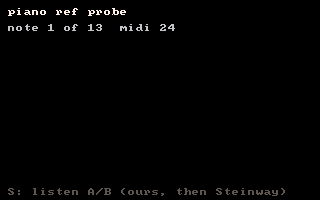
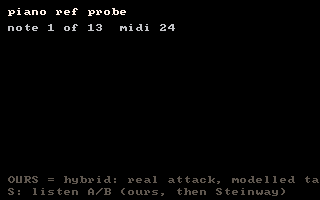
INSTR_PIANO hybrid attack: the real Steinway onset spliced into the modelled string
The maker on the Steinway-matched grand: 'the tail is pretty good', the onset
never quite right. So: commuted synthesis. New API

  instrument_piano_attack(slot, sample_slot, root_midi, splice_ms, xfade_ms)

registers a recorded note (any loaded sample slot) as an attack ZONE on an
INSTR_PIANO slot running MODE_PIANO_MODEL 1. A note plays the nearest zone's
recording, pitched to it, from the strike; the modelled string runs unheard
beside it; at the splice its rms over ~3 periods is matched to the
recording's and an equal-power cross-fade hands over.

Splice per register, from measuring when each Steinway note's hammer and
soundboard noise between the partials settles under -20 dB (~190 ms F#1,
~100 ms C2-F#2, ~50 ms C3-F#3, 20-40 ms from C4): pianoref uses 300/150/100/
70 ms with 80/50/30/15 ms cross-fades. Flyfish (the source of these files)
does not do this: its piano is plain samples cut per register (read its
gen_samples.py settings table only, no code; GPL-3.0).

Measured: no click at any splice (click-check's only events are the
recordings' own hammer onsets, 2 ms in); level across the splice within
~1 dB of the real note's own change C1-F#4. Open: C5-F#5 darken at the
hand-over (C5 centroid 931 -> 599 Hz, the real one 893) and F#5-F#6 drop
2.5-4 dB; the model has shed its highs by 70 ms. PN_ATK_GAIN 3.4 = the
median level match to the model alone.

Without zones nothing changes: model 1 and classic 0 renders byte-identical
[…]

diff --git a/editor/src/shell.js b/editor/src/shell.js
@@ -151,7 +151,7 @@ const sections = [
   { title: 'collision',    keys: ['boxes_touch', 'point_in_box', 'circles_touch', 'near', 'touching_map', 'tile_at', 'touching_color'] },
   { title: 'animation',     keys: ['anim', 'blink'] },
   { title: 'strings',        keys: ['str'] },
-  { title: 'sound',       keys: ['sfx', 'note', 'hit', 'note_on', 'note_off', 'note_pitch', 'note_vol', 'note_cutoff', 'note_duty', 'note_pan', 'note_res', 'note_lfo', 'note_lfo_shape', 'note_env', 'note_follow', 'note_harmonics', 'note_timbre', 'note_morph', 'voice_nasal', 'voice_consonant', 'voice_coda', 'instrument_mode', 'note_aux', 'note_drive', 'note_drive_mode', 'instrument_sync', 'note_sync', 'note_echo', 'note_reverb', 'note_filter', 'note_glide', 'note_glide_scale', 'instrument_glide', 'instrument_glide_scale', 'instrument_trigger', 'GLIDE_CONSTANT', 'GLIDE_ANALOG', 'GLIDE_PER_OCT', 'TRIG_MULTI', 'TRIG_SINGLE', 'note_retrig', 'note_off_all', 'instrument', 'instrument_duty', 'instrument_pan', 'instrument_level', 'instrument_vibrato', 'instrument_analog', 'instrument_release_shape', 'RELEASE_LINEAR', 'RELEASE_EXP', 'RELEASE_DAMPER', 'export_audio', 'export_busy', 'export_progress', 'export_last', 'EXPORT_WAV', 'EXPORT_M4A', 'record_arm', 'record_grab', 'instrument_sample', 'instrument_sample_region', 'instrument_sample_mode', 'sample_peaks', 'sample_read', 'sample_load', 'sample_autotune', 'sample_shift', 'sample_formant', 'record_peaks', 'instrument_playhead', 'mic_start', 'mic_stop', 'mic_active', 'mic_level', 'mic_pitch', 'mic_record', 'mic_recording', 'mic_record_progress', 'mic_record_rate', 'mic_record_read', 'pan_law', 'listener', 'listener_vel', 'spatial_model', 'spatial_speed', 'note_pos', 'note_motion', 'hit_at', 'instrument_pos', 'instrument_motion', 'instrument_lfo', 'lfo_shape', 'lfo_value', 'scope_read', 'scope_read2', 'instrument_filter', 'instrument_keytrack', 'instrument_env', 'instrument_follow', 'instrument_harmonics', 'instrument_timbre', 'instrument_morph', 'instrument_tune', 'instrument_unison', 'instrument_unison_detune', 'instrument_drive', 'instrument_drive_mode', 'instrument_bandlimit', 'instrument_echo', 'instrument_reverb', 'instrument_reverb_bus', 'reverb_bus_fx', 'reverb_insert', 'reverb_spring', 'reverb_spring_tone', 'reverb_plate', 'reverb_plate_width', 'echo_insert', 'echo_insert_bbd', 'drive_insert', 'drive_insert_inst', 'drive_voice', 'grains', 'instrument_grains', 'grains_freeze', 'instrument_grains_freeze', 'grains_pitch', 'instrument_grains_pitch', 'grains_repeat', 'instrument_grains_repeat', 'instrument_chorus', 'instrument_flanger', 'instrument_tape', 'instrument_tape_warble', 'instrument_wah', 'instrument_wah_lfo', 'instrument_crush', 'instrument_eq', 'instrument_formant', 'instrument_tremolo', 'instrument_autopan', 'instrument_ringmod', 'instrument_ringmod_ratio', 'instrument_phaser', 'instrument_univibe', 'instrument_leslie', 'instrument_choke', 'instrument_mono', 'instrument_modes', 'instrument_modes_noise', 'resonator', 'resonator_tune', 'instrument_resonator', 'echo', 'reverb', 'reverb_bus', 'chorus', 'flanger', 'tape', 'tape_inst', 'tape_warble', 'wah', 'wah_lfo', 'crush', 'crush_inst', 'eq', 'eq_inst', 'formant', 'filter', 'filter_inst', 'tremolo', 'autopan', 'ringmod', 'ringmod_ratio', 'phaser', 'univibe', 'leslie', 'dropout', 'shallow', 'instrument_shallow', 'amp_noise', 'gate', 'instrument_gate', 'stereo_width', 'instrument_stereo_width', 'instrument_group', 'reverb_bus_into', 'instrument_fx_filter', 'multiband', 'instrument_multiband', 'shimmer', 'instrument_shimmer', 'varispeed', 'fx_mod', 'instrument_fx_mod', 'fx_lfo', 'fx_order', 'sidechain', 'sidechain_key', 'glue', 'vocoder', 'vocoder_send', 'vocoder_mic', 'vocoder_unvoiced', 'autotune_mic', 'harmonize_mic', 'input_monitor', 'wave_set', 'tone', 'chord', 'strum', 'strum_notes', 'schedule', 'schedule_hit', 'schedule_at', 'schedule_note_at', 'note_event_at', 'NEV_REARTIC', 'NEV_DAMP', 'NEV_RELEASE', 'unschedule', 'NoteOpts', 'NoteVib', 'NoteShape', 'shape_define', 'lane_at', 'LANE_DAMPER', 'LANE_CUTOFF', 'LANE_LEVEL', 'LANE_VIB', 'SHP_PITCH', 'SHP_GAIN', 'SHP_HARM', 'SHP_TIMB', 'SHP_MORPH', 'SHP_CUTOFF', 'SHAPE_LINEAR', 'SHAPE_EASE', 'SHAPE_FAST', 'instrument_accent', 'ACC_VOL', 'ACC_ENV', 'ACC_HARMONICS', 'ACC_TIMBRE', 'ACC_MORPH', 'ACC_CUTOFF', 'audio_time', 'bpm', 'beat', 'beat_pos', 'every', 'euclid', 'chance', 'degree', 'INSTR_SQUARE', 'INSTR_SAW', 'INSTR_TRI', 'INSTR_NOISE', 'INSTR_SINE', 'INSTR_USER0', 'INSTR_USER1', 'INSTR_USER2', 'INSTR_USER3', 'INSTR_PLUCK', 'INSTR_MALLET', 'INSTR_FM', 'INSTR_ORGAN', 'INSTR_EPIANO', 'INSTR_PD', 'INSTR_MEMBRANE', 'INSTR_REED', 'INSTR_PIPE', 'INSTR_VOICE', 'INSTR_GUITAR', 'INSTR_PIANO', 'INSTR_BOWED', 'INSTR_BRASS', 'INSTR_SAMPLE', 'INSTR_MODAL', 'INSTR_FM4', 'INSTR_MME', 'INSTR_METAL', 'INSTR_SINTER', 'INSTR_WAVESCAN', 'INSTR_GRAIN', 'INSTR_SING', 'INSTR_SCRAPE', 'SAMPLE_NORMAL', 'SAMPLE_REVERSE', 'SAMPLE_LOOP', 'SAMPLE_PINGPONG', 'LFO_PITCH', 'LFO_DUTY', 'LFO_VOLUME', 'LFO_CUTOFF', 'LFO_CUTOFF_OCT', 'LFO_HARMONICS', 'LFO_TIMBRE', 'LFO_MORPH', 'LFO_PAN', 'LFO_DETUNE', 'PAN_LINEAR', 'PAN_POWER', 'ENV_CUTOFF', 'ENV_CUTOFF_OCT', 'ENV_PITCH', 'ENV_DUTY', 'ENV_HARMONICS', 'ENV_TIMBRE', 'ENV_MORPH', 'ENV_DETUNE', 'FILTER_OFF', 'FILTER_LOW', 'FILTER_HIGH', 'FILTER_BAND', 'FILTER_NOTCH', 'FILTER_LADDER', 'FILTER_STEINER', 'FILTER_STEINER_HP', 'FILTER_STEINER_BP', 'FILTER_STEINER_NF', 'FILTER_DIODE', 'NOTE_FILTER_OFF', 'DRIVE_SOFT', 'DRIVE_HARD', 'DRIVE_FOLD', 'DRIVE_ASYM', 'DRIVE_VOICE_NONE', 'DRIVE_VOICE_TS', 'DRIVE_VOICE_RAT', 'DRIVE_VOICE_MUFF', 'LFO_SHAPE_SINE', 'LFO_SHAPE_SQUARE', 'LFO_SHAPE_TRI', 'LFO_SHAPE_SAW', 'LFO_SHAPE_RAMP', 'LFO_SHAPE_OPTICAL', 'LFO_SHAPE_SH', 'LFO_SHAPE_RANDOM', 'TREM_SINE', 'TREM_SQUARE', 'TREM_TRI', 'MODE_STRING_WEIGHT', 'MODE_STRING_CLICK', 'MODE_PIANO_DECAY', 'MODE_PIANO_KNOCK', 'MODE_PIANO_STRETCH', 'MODE_PIANO_STIFF', 'MODE_PIANO_MODEL', 'MODE_ORGAN_PERC_THIRD', 'MODE_ORGAN_PERC_SLOW', 'MODE_ORGAN_LEAK', 'MODE_BOW_PIZZ', 'MODE_BOW_BODY', 'MODE_BOW_SIZE', 'MODE_BOW_PLUCK', 'MODE_MODAL_POS', 'MODE_MODAL_DIRECT', 'MODE_MODAL_MODES', 'MODE_MODAL_EXCITE', 'MODE_MODAL_MAP', 'MODE_FM4_ALG', 'MODE_FM4_R0', 'MODE_FM4_R1', 'MODE_FM4_R2', 'MODE_FM4_R3', 'MODE_FM4_MAP', 'MODE_MME_FEEDBACK', 'MODE_MME_SHAPER', 'MODE_MME_PAIR', 'MODE_MME_INTERVAL', 'MODE_METAL_DECAY', 'MODE_METAL_SPREAD', 'MODE_SINTER_A', 'MODE_SINTER_B', 'MODE_SINTER_MOTION', 'MODE_SINTER_DECAY', 'MODE_WAVESCAN_RES', 'MODE_WAVESCAN_NOISE', 'MODE_WAVESCAN_INTERVAL', 'MODE_GRAIN_SCATTER', 'MODE_GRAIN_DETUNE', 'MODE_GRAIN_REVERSE', 'MODE_SING_ONESHOT', 'BOW_SIZE_VIOLIN', 'BOW_SIZE_VIOLA', 'BOW_SIZE_CELLO', 'BOW_SIZE_BASS', 'FX_TREM', 'FX_WAH', 'FX_CHORUS', 'FX_PHASER', 'FX_FLANGER', 'FX_TAPE', 'FX_EQ', 'FX_CRUSH', 'FX_REVERB', 'FX_FORMANT', 'FX_FILTER', 'FX_PAN', 'FX_RINGMOD', 'FX_ECHO', 'FX_GRAINS', 'FX_DRIVE', 'FX_SHALLOW', 'FX_GATE', 'FX_MULTIBAND', 'FX_WIDTH', 'FX_INST', 'FXMOD_FILTER_CUT', 'FXMOD_FILTER_RES', 'FXMOD_DRIVE', 'FXMOD_TREM_DEPTH', 'FXMOD_PAN_DEPTH', 'FXMOD_GRAINS_MIX', 'FXMOD_SHIMMER_MIX', 'LESLIE_STOP', 'LESLIE_SLOW', 'LESLIE_FAST', 'SCALE_MAJOR', 'SCALE_MINOR', 'SCALE_PENTA', 'SCALE_PENTA_MIN', 'SCALE_BLUES', 'SCALE_CHROMATIC', 'CHORD_MAJ', 'CHORD_MIN', 'CHORD_DIM', 'CHORD_AUG', 'CHORD_MAJ7', 'CHORD_MIN7', 'CHORD_DOM7', 'CHORD_SUS4', 'CHORD_POWER'] },
+  { title: 'sound',       keys: ['sfx', 'note', 'hit', 'note_on', 'note_off', 'note_pitch', 'note_vol', 'note_cutoff', 'note_duty', 'note_pan', 'note_res', 'note_lfo', 'note_lfo_shape', 'note_env', 'note_follow', 'note_harmonics', 'note_timbre', 'note_morph', 'voice_nasal', 'voice_consonant', 'voice_coda', 'instrument_mode', 'note_aux', 'note_drive', 'note_drive_mode', 'instrument_sync', 'note_sync', 'note_echo', 'note_reverb', 'note_filter', 'note_glide', 'note_glide_scale', 'instrument_glide', 'instrument_glide_scale', 'instrument_trigger', 'GLIDE_CONSTANT', 'GLIDE_ANALOG', 'GLIDE_PER_OCT', 'TRIG_MULTI', 'TRIG_SINGLE', 'note_retrig', 'note_off_all', 'instrument', 'instrument_duty', 'instrument_pan', 'instrument_level', 'instrument_vibrato', 'instrument_analog', 'instrument_release_shape', 'RELEASE_LINEAR', 'RELEASE_EXP', 'RELEASE_DAMPER', 'export_audio', 'export_busy', 'export_progress', 'export_last', 'EXPORT_WAV', 'EXPORT_M4A', 'record_arm', 'record_grab', 'instrument_sample', 'instrument_piano_attack', 'instrument_sample_region', 'instrument_sample_mode', 'sample_peaks', 'sample_read', 'sample_load', 'sample_autotune', 'sample_shift', 'sample_formant', 'record_peaks', 'instrument_playhead', 'mic_start', 'mic_stop', 'mic_active', 'mic_level', 'mic_pitch', 'mic_record', 'mic_recording', 'mic_record_progress', 'mic_record_rate', 'mic_record_read', 'pan_law', 'listener', 'listener_vel', 'spatial_model', 'spatial_speed', 'note_pos', 'note_motion', 'hit_at', 'instrument_pos', 'instrument_motion', 'instrument_lfo', 'lfo_shape', 'lfo_value', 'scope_read', 'scope_read2', 'instrument_filter', 'instrument_keytrack', 'instrument_env', 'instrument_follow', 'instrument_harmonics', 'instrument_timbre', 'instrument_morph', 'instrument_tune', 'instrument_unison', 'instrument_unison_detune', 'instrument_drive', 'instrument_drive_mode', 'instrument_bandlimit', 'instrument_echo', 'instrument_reverb', 'instrument_reverb_bus', 'reverb_bus_fx', 'reverb_insert', 'reverb_spring', 'reverb_spring_tone', 'reverb_plate', 'reverb_plate_width', 'echo_insert', 'echo_insert_bbd', 'drive_insert', 'drive_insert_inst', 'drive_voice', 'grains', 'instrument_grains', 'grains_freeze', 'instrument_grains_freeze', 'grains_pitch', 'instrument_grains_pitch', 'grains_repeat', 'instrument_grains_repeat', 'instrument_chorus', 'instrument_flanger', 'instrument_tape', 'instrument_tape_warble', 'instrument_wah', 'instrument_wah_lfo', 'instrument_crush', 'instrument_eq', 'instrument_formant', 'instrument_tremolo', 'instrument_autopan', 'instrument_ringmod', 'instrument_ringmod_ratio', 'instrument_phaser', 'instrument_univibe', 'instrument_leslie', 'instrument_choke', 'instrument_mono', 'instrument_modes', 'instrument_modes_noise', 'resonator', 'resonator_tune', 'instrument_resonator', 'echo', 'reverb', 'reverb_bus', 'chorus', 'flanger', 'tape', 'tape_inst', 'tape_warble', 'wah', 'wah_lfo', 'crush', 'crush_inst', 'eq', 'eq_inst', 'formant', 'filter', 'filter_inst', 'tremolo', 'autopan', 'ringmod', 'ringmod_ratio', 'phaser', 'univibe', 'leslie', 'dropout', 'shallow', 'instrument_shallow', 'amp_noise', 'gate', 'instrument_gate', 'stereo_width', 'instrument_stereo_width', 'instrument_group', 'reverb_bus_into', 'instrument_fx_filter', 'multiband', 'instrument_multiband', 'shimmer', 'instrument_shimmer', 'varispeed', 'fx_mod', 'instrument_fx_mod', 'fx_lfo', 'fx_order', 'sidechain', 'sidechain_key', 'glue', 'vocoder', 'vocoder_send', 'vocoder_mic', 'vocoder_unvoiced', 'autotune_mic', 'harmonize_mic', 'input_monitor', 'wave_set', 'tone', 'chord', 'strum', 'strum_notes', 'schedule', 'schedule_hit', 'schedule_at', 'schedule_note_at', 'note_event_at', 'NEV_REARTIC', 'NEV_DAMP', 'NEV_RELEASE', 'unschedule', 'NoteOpts', 'NoteVib', 'NoteShape', 'shape_define', 'lane_at', 'LANE_DAMPER', 'LANE_CUTOFF', 'LANE_LEVEL', 'LANE_VIB', 'SHP_PITCH', 'SHP_GAIN', 'SHP_HARM', 'SHP_TIMB', 'SHP_MORPH', 'SHP_CUTOFF', 'SHAPE_LINEAR', 'SHAPE_EASE', 'SHAPE_FAST', 'instrument_accent', 'ACC_VOL', 'ACC_ENV', 'ACC_HARMONICS', 'ACC_TIMBRE', 'ACC_MORPH', 'ACC_CUTOFF', 'audio_time', 'bpm', 'beat', 'beat_pos', 'every', 'euclid', 'chance', 'degree', 'INSTR_SQUARE', 'INSTR_SAW', 'INSTR_TRI', 'INSTR_NOISE', 'INSTR_SINE', 'INSTR_USER0', 'INSTR_USER1', 'INSTR_USER2', 'INSTR_USER3', 'INSTR_PLUCK', 'INSTR_MALLET', 'INSTR_FM', 'INSTR_ORGAN', 'INSTR_EPIANO', 'INSTR_PD', 'INSTR_MEMBRANE', 'INSTR_REED', 'INSTR_PIPE', 'INSTR_VOICE', 'INSTR_GUITAR', 'INSTR_PIANO', 'INSTR_BOWED', 'INSTR_BRASS', 'INSTR_SAMPLE', 'INSTR_MODAL', 'INSTR_FM4', 'INSTR_MME', 'INSTR_METAL', 'INSTR_SINTER', 'INSTR_WAVESCAN', 'INSTR_GRAIN', 'INSTR_SING', 'INSTR_SCRAPE', 'SAMPLE_NORMAL', 'SAMPLE_REVERSE', 'SAMPLE_LOOP', 'SAMPLE_PINGPONG', 'LFO_PITCH', 'LFO_DUTY', 'LFO_VOLUME', 'LFO_CUTOFF', 'LFO_CUTOFF_OCT', 'LFO_HARMONICS', 'LFO_TIMBRE', 'LFO_MORPH', 'LFO_PAN', 'LFO_DETUNE', 'PAN_LINEAR', 'PAN_POWER', 'ENV_CUTOFF', 'ENV_CUTOFF_OCT', 'ENV_PITCH', 'ENV_DUTY', 'ENV_HARMONICS', 'ENV_TIMBRE', 'ENV_MORPH', 'ENV_DETUNE', 'FILTER_OFF', 'FILTER_LOW', 'FILTER_HIGH', 'FILTER_BAND', 'FILTER_NOTCH', 'FILTER_LADDER', 'FILTER_STEINER', 'FILTER_STEINER_HP', 'FILTER_STEINER_BP', 'FILTER_STEINER_NF', 'FILTER_DIODE', 'NOTE_FILTER_OFF', 'DRIVE_SOFT', 'DRIVE_HARD', 'DRIVE_FOLD', 'DRIVE_ASYM', 'DRIVE_VOICE_NONE', 'DRIVE_VOICE_TS', 'DRIVE_VOICE_RAT', 'DRIVE_VOICE_MUFF', 'LFO_SHAPE_SINE', 'LFO_SHAPE_SQUARE', 'LFO_SHAPE_TRI', 'LFO_SHAPE_SAW', 'LFO_SHAPE_RAMP', 'LFO_SHAPE_OPTICAL', 'LFO_SHAPE_SH', 'LFO_SHAPE_RANDOM', 'TREM_SINE', 'TREM_SQUARE', 'TREM_TRI', 'MODE_STRING_WEIGHT', 'MODE_STRING_CLICK', 'MODE_PIANO_DECAY', 'MODE_PIANO_KNOCK', 'MODE_PIANO_STRETCH', 'MODE_PIANO_STIFF', 'MODE_PIANO_MODEL', 'MODE_ORGAN_PERC_THIRD', 'MODE_ORGAN_PERC_SLOW', 'MODE_ORGAN_LEAK', 'MODE_BOW_PIZZ', 'MODE_BOW_BODY', 'MODE_BOW_SIZE', 'MODE_BOW_PLUCK', 'MODE_MODAL_POS', 'MODE_MODAL_DIRECT', 'MODE_MODAL_MODES', 'MODE_MODAL_EXCITE', 'MODE_MODAL_MAP', 'MODE_FM4_ALG', 'MODE_FM4_R0', 'MODE_FM4_R1', 'MODE_FM4_R2', 'MODE_FM4_R3', 'MODE_FM4_MAP', 'MODE_MME_FEEDBACK', 'MODE_MME_SHAPER', 'MODE_MME_PAIR', 'MODE_MME_INTERVAL', 'MODE_METAL_DECAY', 'MODE_METAL_SPREAD', 'MODE_SINTER_A', 'MODE_SINTER_B', 'MODE_SINTER_MOTION', 'MODE_SINTER_DECAY', 'MODE_WAVESCAN_RES', 'MODE_WAVESCAN_NOISE', 'MODE_WAVESCAN_INTERVAL', 'MODE_GRAIN_SCATTER', 'MODE_GRAIN_DETUNE', 'MODE_GRAIN_REVERSE', 'MODE_SING_ONESHOT', 'BOW_SIZE_VIOLIN', 'BOW_SIZE_VIOLA', 'BOW_SIZE_CELLO', 'BOW_SIZE_BASS', 'FX_TREM', 'FX_WAH', 'FX_CHORUS', 'FX_PHASER', 'FX_FLANGER', 'FX_TAPE', 'FX_EQ', 'FX_CRUSH', 'FX_REVERB', 'FX_FORMANT', 'FX_FILTER', 'FX_PAN', 'FX_RINGMOD', 'FX_ECHO', 'FX_GRAINS', 'FX_DRIVE', 'FX_SHALLOW', 'FX_GATE', 'FX_MULTIBAND', 'FX_WIDTH', 'FX_INST', 'FXMOD_FILTER_CUT', 'FXMOD_FILTER_RES', 'FXMOD_DRIVE', 'FXMOD_TREM_DEPTH', 'FXMOD_PAN_DEPTH', 'FXMOD_GRAINS_MIX', 'FXMOD_SHIMMER_MIX', 'LESLIE_STOP', 'LESLIE_SLOW', 'LESLIE_FAST', 'SCALE_MAJOR', 'SCALE_MINOR', 'SCALE_PENTA', 'SCALE_PENTA_MIN', 'SCALE_BLUES', 'SCALE_CHROMATIC', 'CHORD_MAJ', 'CHORD_MIN', 'CHORD_DIM', 'CHORD_AUG', 'CHORD_MAJ7', 'CHORD_MIN7', 'CHORD_DOM7', 'CHORD_SUS4', 'CHORD_POWER'] },
   { title: 'utility', keys: ['rnd', 'rnd_between', 'rnd_float', 'rnd_float_between', 'rnd_seed', 'now', 'dt', 'epoch', 'frame', 'fps', 'sgn', 'mid', 'timer', 'timer_reset'] },
   { title: 'persistence', keys: ['save', 'load', 'save_int', 'load_int', 'save_bytes', 'load_bytes', 'de_state', 'de_state_for', 'de_state_for_saved', 'STATE', 'S', 'GameState'] },
   { title: 'external data', keys: ['de_data_path', 'de_dropped_file', 'de_open_path', 'de_switch_cart'] },

diff --git a/editor/src/studioDocs.js b/editor/src/studioDocs.js
@@ -334,6 +334,7 @@ export const studioDocs = {
   record_arm: { sig: 'void record_arm(void)',                                            doc: 'PCM SAMPLER (mic-and-sampling.md): begin the always-on rolling capture of the master output — the console records its OWN sound into a buffer. Idempotent; OFF and byte-identical until you call it (so it never touches carts that don’t sample). Call once (e.g. in init), then record_grab() any time to snapshot the recent audio. The capture ring holds the last ~8 seconds.\nrecord_arm();  // start listening to my own output' },
   record_grab: { sig: 'int record_grab(int sample_slot, float seconds)',                 doc: 'Snapshot the last `seconds` of captured audio into PCM sample slot 0..15 (replacing whatever was there), peak-normalized with leading/trailing SILENCE TRIMMED so the buffer starts at the first audible sample (no dead air from the gap between arming and the first note). Returns the sample count grabbed AFTER trimming (0 = not armed, or nothing captured yet). Then play it back with instrument_sample() + INSTR_SAMPLE. This is the “record what I just played, then play with it” move — the source is the console’s own synthesis, not a mic.\nint n = record_grab(0, 2.0f);  // grab the last 2 seconds into sample slot 0' },
   instrument_sample: { sig: 'void instrument_sample(int slot, int sample_slot, int root_midi)', doc: 'Bind an INSTR_SAMPLE instrument slot to a recorded buffer (from record_grab). root_midi = the note that plays the buffer at its ORIGINAL speed (e.g. 60 = C4); press higher and it plays faster / up in pitch, lower = slower / down — the classic sampler keyboard. Use with a keybed to play your recording chromatically.\ninstrument(5, INSTR_SAMPLE, 1, 0, 7, 200);\ninstrument_sample(5, 0, 60);  // slot 5 plays sample 0, C4 = original pitch' },
+  instrument_piano_attack: { sig: 'void instrument_piano_attack(int slot, int sample_slot, int root_midi, int splice_ms, int xfade_ms)', doc: 'The HYBRID piano: a real recorded attack, then the modelled string. For an INSTR_PIANO slot on the grand (instrument_harmonics 0.08) with MODE_PIANO_MODEL 1. Load the recording of one note into a sample slot (sample_load), then register it as a ZONE: notes play that recording from the strike for splice_ms, while the modelled string runs unheard beside it; at the splice the string is level-matched to the recording and they cross-fade over xfade_ms. The hammer, felt and soundboard noise of a real piano is the part a model gets least right, and it is over in tens of ms in the treble but takes 100-200 ms in the bass, so give the low zones longer splices (Steinway: ~300 ms at C1, ~100 ms at C3, 60-80 ms from C4 up). Call once per zone; a played note uses the zone with the NEAREST root and pitches its recording to the note. sample_slot -1 removes the zone at root_midi. Without zones the slot plays the plain model.\nsample_load(0, c4_pcm, n);  instrument_piano_attack(5, 0, 60, 70, 15);   // C4 zone: 70 ms real, 15 ms cross-fade' },
   instrument_sample_mode: { sig: 'void instrument_sample_mode(int slot, int mode)', doc: 'Set how an INSTR_SAMPLE slot plays its chop: SAMPLE_NORMAL (one-shot forward), SAMPLE_REVERSE (one-shot backward), SAMPLE_LOOP (forward, wrapping to the chop start — keeps sounding while the note is held), or SAMPLE_PINGPONG (bounce forward/backward between the chop ends while held). Loop/pingpong turn a chop into a sustained pad/texture; normal/reverse are one-shots gated by the amp envelope.\ninstrument_sample_mode(5, SAMPLE_LOOP);' },
   SAMPLE_NORMAL:   { sig: '#define SAMPLE_NORMAL 0',   doc: 'INSTR_SAMPLE playback mode: play the chop once, forward (default). Pass to instrument_sample_mode().' },
   SAMPLE_REVERSE:  { sig: '#define SAMPLE_REVERSE 1',  doc: 'INSTR_SAMPLE playback mode: play the chop once, backward. Pass to instrument_sample_mode().' },

diff --git a/runtime/sound.h b/runtime/sound.h
@@ -2205,6 +2205,7 @@ static CtxKey sound_ctx_key(SoundReqKind k) {
         case SR_INSTR_ACCENT:                      // a=slot, b=ACC_* route
         case SR_SHAPE_PT:                          // a=shape id, b=point index
         case SR_MODES_N:                           // a=slot, b=modes / noise
+        case SR_INSTR_PNATK:                       // a=slot, b=root midi (one zone per root)
             return CTXK_KAB;
         // a+c name the target
         case SR_FX_MOD: case SR_FX_LFO:            // a=target, c=bus
@@ -5671,6 +5672,12 @@ static const float PIANO_HFLOSS[6] = { PN_HFLOSS_GRAND, 0.0f, 0.0f, 0.0f, 0.0f, 
 #define PN_ONSET_GRAND 5.0f
 #endif
 static const float PIANO_ONSET[6] = { PN_ONSET_GRAND, 0.0f, 0.0f, 0.0f, 0.0f, 0.0f };
+
+// HYBRID ATTACK gain: the recording's level relative to the modelled string (instrument_piano_attack). The
+// string is level-matched TO the recording at the splice, so this sets the whole hybrid note's loudness.
+#ifndef PN_ATK_GAIN
+#define PN_ATK_GAIN 3.4f
+#endif
 static const float PIANO_FELT[6] = { PN_FELT_GRAND, 0.0f, 0.0f, 0.0f, 0.0f, 0.0f };
 
 // DECAY FLOOR (2026-11-09, step 3, forced by the felt hammer). The loop loses a FIXED amount per period
@@ -5851,6 +5858,7 @@ static void sound_piano_start(Voice *v) {
     float pn_sig  = pn_mdl ? PIANO_SIGMA[vi]  : 0.0f;
     float pn_ons  = pn_mdl ? PIANO_ONSET[vi]  : 0.0f;
     float freq = v->freq > 20.0f ? v->freq : 20.0f;
+    float pa_fnom = freq;                              // HYBRID ATTACK: the played pitch BEFORE the stretch (picks the zone)
     // STRETCHED-TUNING SEAM (see piano_stretch_freq). eng_p[4] (MODE_PIANO_STRETCH) scales K: bank
     // default 0.5 → 1.0× = exactly PIANO_STRETCH_K, so the default is bit-identical to before it was
     // a parameter; 0 = equal temperament; 1.0 = 2× the curve.
@@ -6015,12 +6023,80 @@ static void sound_piano_start(Voice *v) {
     }
     v->eng_subph = v->eng_env = 0.0f;
     v->eng_click = 700;
+    // HYBRID ATTACK (2026-11-09, commuted synthesis: the maker heard the modelled tail as good and its onset
+    // as never quite right). A slot with recorded attack zones (instrument_piano_attack) on MODE_PIANO_MODEL
+    // plays the REAL recording from note-on, while this string runs unheard beside it; at the zone's splice
+    // point the string's level is matched to the recording's (rms over a few periods just before) and an
+    // equal-power cross-fade hands over. The splice is per zone because the attack is not one length: the
+    // Steinway's hammer + soundboard noise settles by ~20-40 ms from C4 up but ~100-200 ms in the bass.
+    v->pa_smp = -1;
+    if (pn_mdl) {
+        const Instrument *pins = &instr_bank[v->instr_slot];
+        if (pins->pna_n > 0) {
+            float midi = 69.0f + 12.0f * de_log2f(pa_fnom / 440.0f);
+            int z = 0; float best = 1e9f;
+            for (int k = 0; k < pins->pna_n; k++) {
+                float d = fabsf(midi - (float)pins->pna_root[k]);
+                if (d < best) { best = d; z = k; }
+            }
+            int si = pins->pna_smp[z];
+            if (si >= 0 && si < SOUND_SAMPLE_SLOTS && sound_samples[si].loaded) {
+                const SoundSample *ss = &sound_samples[si];
+                float rootf = 440.0f * de_powf(2.0f, ((float)pins->pna_root[z] - 69.0f) / 12.0f);
+                float rate = freq / piano_stretch_freq(rootf, PIANO_STRETCH_K * (v->eng_p[4] * 2.0f));
+                int T = (int)(pins->pna_splice[z] * 0.001f * (float)SOUND_SAMPLE_RATE);
+                int X = (int)(pins->pna_xf[z] * 0.001f * (float)SOUND_SAMPLE_RATE);
+                int W = (int)(3.0f * (float)SOUND_SAMPLE_RATE / freq);          // match over ~3 periods
+                if (W < SOUND_SAMPLE_RATE / 100) W = SOUND_SAMPLE_RATE / 100;
+                if (W > T / 2) W = T / 2;
+                if (W >= 1 && (float)(T + X + 2) * rate < (float)ss->len) {   // the recording must outlast the cross-fade
+                    double e = 0.0;
+                    for (int k = T - W; k < T; k++) {
+                        float p = (float)k * rate; int i = (int)p; float fr = p - (float)i;
+                        float sv = ss->data[i] + fr * (ss->data[i + 1] - ss->data[i]);
+                        e += (double)sv * sv;
+                    }
+                    v->pa_smp = si; v->pa_pos = 0.0f; v->pa_rate = rate; v->pa_sg = PN_ATK_GAIN;
+                    v->pa_n = 0; v->pa_T = T; v->pa_X = X; v->pa_W = W;
+                    v->pa_tgt = sqrtf((float)(e / (double)W)); v->pa_e = 0.0f; v->pa_mg = 1.0f;
+                }
+            }
+        }
+    }
     v->pn_on = true;
 }
 
 // per-sample — navkit processStifKarpOscillator verbatim: near-lossless KS loop (avg → brightness
 // blend → effectiveDamping → dispersion → allpass tuning), one-period delay, optional 2nd string,
 // tone-filter, soundboard crossfade, sympathetic tap. Decay is the amp envelope, not the loop.
+// HYBRID ATTACK mix (see sound_piano_start): `m` is the modelled string's sample. Before the splice the
+// recording plays alone (the string runs unheard, its energy gathered over the last W samples); at the
+// splice the string's gain is set so its rms matches the recording's there; then an equal-power cross-fade.
+static inline float pn_attack_mix(Voice *v, float m) {
+    if (v->pa_smp == -2) return v->pa_mg * m;                     // spliced: the string alone
+    const SoundSample *ss = &sound_samples[v->pa_smp];
+    float sv = 0.0f;
+    int i = (int)v->pa_pos;
+    if (ss->loaded && i + 1 < ss->len) { float fr = v->pa_pos - (float)i; sv = (ss->data[i] + fr * (ss->data[i + 1] - ss->data[i])) * v->pa_sg; }
+    v->pa_pos += v->pa_rate;
+    int n = v->pa_n++;
+    if (n < v->pa_T) {
+        if (n >= v->pa_T - v->pa_W) v->pa_e += m * m;
+        if (n == v->pa_T - 1) {
+            float mr = sqrtf(v->pa_e / (float)v->pa_W);
+            float g = (mr > 1e-9f) ? v->pa_tgt * v->pa_sg / mr : 1.0f;
+            v->pa_mg = clampf(0.02f, 50.0f, g);
+        }
+        return sv;
+    }
+    if (n < v->pa_T + v->pa_X) {
+        float th = 1.57079633f * (float)(n - v->pa_T) / (float)v->pa_X;
+        return sv * de_cosf(th) + v->pa_mg * m * de_sinf(th);
+    }
+    v->pa_smp = -2;
+    return v->pa_mg * m;
+}
+
 static inline float sound_piano_sample(Voice *v, float pitch_mul) {
     int len = v->ks_len;
     if (len < 2 || !v->pn_on) return 0.0f;       // engine id without a note-on init → silent
@@ -6123,6 +6199,7 @@ static inline float sound_piano_sample(Voice *v, float pitch_mul) {
                                                                      // (under the ONSET RAMP too, or it cracks before the string builds)
         v->eng_click--;
     }
+    if (v->pa_smp != -1) res = pn_attack_mix(v, res);              // HYBRID ATTACK: the real onset, then the string
     return res;
 }
 
@@ -8941,6 +9018,26 @@ static void sound_fire_req(SoundReq r) {
         if (instr_bank[slot].wave == INSTR_SING && r.b >= 0 && r.b < SOUND_SAMPLE_SLOTS && sing_an[r.b].nep == 0)
             sing_an[r.b].want = 1;      // INSTR_SING: ask sound_tick for the analysis (covers a replayed binding)
     } break;
+    case SR_INSTR_PNATK: {   // a=slot, b=root midi, c=sample slot (-1 = remove), e0=splice ms, e1=xfade ms
+        int slot = r.a;
+        if (slot < 0 || slot >= SOUND_INSTR_SLOTS) return;
+        Instrument *in = &instr_bank[slot];
+        int z = 0;
+        while (z < in->pna_n && in->pna_root[z] != r.b) z++;
+        if (r.c < 0) {                                   // remove that root's zone
+            if (z < in->pna_n) {
+                for (int k = z; k < in->pna_n - 1; k++) {
+                    in->pna_root[k] = in->pna_root[k + 1]; in->pna_smp[k] = in->pna_smp[k + 1];
+                    in->pna_splice[k] = in->pna_splice[k + 1]; in->pna_xf[k] = in->pna_xf[k + 1];
+                }
+                in->pna_n--;
+            }
+            break;
+        }
+        if (z == in->pna_n) { if (in->pna_n >= 16) break; in->pna_n++; }
+        in->pna_root[z] = (unsigned char)r.b; in->pna_smp[z] = (signed char)r.c;
+        in->pna_splice[z] = (short)r.e0;      in->pna_xf[z] = (short)r.e1;
+    } break;
     case SR_INSTR_SAMPLE_REGION: {  // a=slot, b=start*1e6, c=end*1e6 — the chop bounds (fractions 0..1)
         int slot = r.a;
         if (slot < 0 || slot >= SOUND_INSTR_SLOTS) return;
@@ -10715,6 +10812,14 @@ void instrument_sample(int slot, int sample_slot, int root_midi) {
     sound_push_ctrl(SR_INSTR_SAMPLE, slot, sample_slot, (int)(root * 1000.0f), 0, 0, 0);
     sing_smp1[slot] = (sample_slot >= 0 && sample_slot < SOUND_SAMPLE_SLOTS) ? (signed char)(sample_slot + 1) : 0;
     if (sing_inst[slot] && sing_smp1[slot]) sing_analyze(sample_slot);   // INSTR_SING: analyse NOW, so a note this frame sings
+}
+
+void instrument_piano_attack(int slot, int sample_slot, int root_midi, int splice_ms, int xfade_ms) {
+    if (slot < 0 || slot >= SOUND_INSTR_SLOTS || root_midi < 0 || root_midi > 127) return;
+    if (sample_slot >= SOUND_SAMPLE_SLOTS) return;
+    if (splice_ms < 1) splice_ms = 1;   if (splice_ms > 3000) splice_ms = 3000;
+    if (xfade_ms < 1) xfade_ms = 1;     if (xfade_ms > 1000) xfade_ms = 1000;
+    sound_push_ctrl(SR_INSTR_PNATK, slot, root_midi, sample_slot < 0 ? -1 : sample_slot, splice_ms, xfade_ms, 0);
 }
 
 void instrument_sample_region(int slot, float start, float end) {

diff --git a/tools/carts/pianoref.c b/tools/carts/pianoref.c
@@ -7,7 +7,7 @@
   "kind": ["probe"],
   "teaches": ["waveguide-synth"],
   "lineage": "INSTR_PIANO's half of an A/B against a real Steinway D: the 13 notes in assets/samples/steinway/ (bitKlavier Grand, Daniel Trueman, Princeton, CC BY 4.0). Same shape as acidref (the 303 vs Open303): play exactly what the reference holds, on a fixed grid, so both drop into the same oracles. openstrings' fifth todo.",
-  "description": "Not a toy: a measurement probe. Plays C1, F#1, C2 ... F#6, C7 (MIDI 24 + 6k, the Steinway sample grid) on INSTR_PIANO's grand voicing, each held 3.3 s with a 0.2 s gap, one note every 3.5 s. Compare with node tools/oneshot-compare.js --render pianoref --spec tools/oneshot-specs/pianoref.json. DE_DEFINES: PR_VOL (note_on vol 0-7, default 5 = the samples' layer 12 of 16), PR_HARM / PR_TIMB / PR_MORPH (the macros), PR_STIFF / PR_DECAY / PR_KNOCK (instrument_mode 0..1, 0.5 = the engine default), PR_MODEL (MODE_PIANO_MODEL, default 1 = the Steinway-matched grand; 0 = the classic engine, for a before/after). LISTEN: press S to hear each note twice, ours then the real Steinway, looping (credit: bitKlavier Grand Sample Library, Daniel Trueman, Princeton University, CC BY 4.0)."
+  "description": "Not a toy: a measurement probe. Plays C1, F#1, C2 ... F#6, C7 (MIDI 24 + 6k, the Steinway sample grid) on INSTR_PIANO's grand voicing, each held 3.3 s with a 0.2 s gap, one note every 3.5 s. Compare with node tools/oneshot-compare.js --render pianoref --spec tools/oneshot-specs/pianoref.json. DE_DEFINES: PR_VOL (note_on vol 0-7, default 5 = the samples' layer 12 of 16), PR_HARM / PR_TIMB / PR_MORPH (the macros), PR_STIFF / PR_DECAY / PR_KNOCK (instrument_mode 0..1, 0.5 = the engine default), PR_MODEL (MODE_PIANO_MODEL, default 1 = the Steinway-matched grand; 0 = the classic engine, for a before/after), PR_HYBRID (default 1 = the real Steinway attack spliced into the modelled string via instrument_piano_attack; 0 = the model alone). LISTEN: press S to hear each note twice, ours then the real Steinway, looping (credit: bitKlavier Grand Sample Library, Daniel Trueman, Princeton University, CC BY 4.0)."
 }
 de:meta */
 #include "studio.h"
@@ -41,6 +41,9 @@ de:meta */
 #ifndef PR_MODEL
 #define PR_MODEL 1.0f           // MODE_PIANO_MODEL: 1 = the Steinway-matched grand, 0 = the classic engine
 #endif
+#ifndef PR_HYBRID
+#define PR_HYBRID 1             // 1 = the HYBRID: the real Steinway attack, then the modelled string (instrument_piano_attack)
+#endif
 
 static int f = -1, held = -1;
 
@@ -51,6 +54,11 @@ static int f = -1, held = -1;
 static const char *ZF[NZ] = { "C1", "Fs1", "C2", "Fs2", "C3", "Fs3", "C4", "Fs4", "C5", "Fs5", "C6", "Fs6", "C7" };
 static float zbuf[4 * 44100];
 static bool listen = false, samples_ok = false;
+// HYBRID splice per zone (ms after the strike) + cross-fade (ms), from measuring when each note's hammer and
+// soundboard noise between the partials settles under -20 dB: ~190 ms F#1, ~100 ms C2-F#2, ~50 ms C3-F#3,
+// 20-40 ms C4 up (C1 never fully settles). Splices sit a little past those; cross-fades span a few periods.
+static const int ZSPLICE[NZ] = { 300, 300, 150, 150, 100, 100, 70, 70, 70, 70, 70, 70, 70 };
+static const int ZXFADE[NZ]  = {  80,  80,  50,  50,  30,  30, 15, 15, 15, 15, 15, 15, 15 };
 static int lf = 0;                  // listen-mode frame counter
 
 static int load_wav16(const char *path, float *out, int max) {   // mono 16-bit PCM → -1..1
@@ -95,6 +103,11 @@ void init(void) {
     instrument_mode(5, MODE_PIANO_DECAY, PR_DECAY);
     instrument_mode(5, MODE_PIANO_KNOCK, PR_KNOCK);
     instrument_mode(5, MODE_PIANO_MODEL, PR_MODEL);
+#if PR_HYBRID
+    load_samples();             // the 13 recordings (also the listen-mode reference)
+    if (samples_ok)
+        for (int z = 0; z < NZ; z++) instrument_piano_attack(5, z, 24 + 6 * z, ZSPLICE[z], ZXFADE[z]);
+#endif
 }
 
 void update(void) {
@@ -137,5 +150,6 @@ void draw(void) {
         snprintf(b, sizeof b, "note %d of %d  midi %d", z + 1, NZ, 24 + 6 * z);
         print(z < NZ ? b : "done", 8, 24, CLR_LIGHT_GREY);
     }
+    print(PR_HYBRID ? "OURS = hybrid: real attack, modelled tail" : "OURS = the modelled grand", 8, SCREEN_H - 24, CLR_DARK_GREY);
     print("S: listen A/B (ours, then Steinway)", 8, SCREEN_H - 12, CLR_DARK_GREY);
 }

diff --git a/runtime/sound_ctx.h b/runtime/sound_ctx.h
@@ -102,6 +102,10 @@ typedef struct {
     float smp_root;                 // INSTR_SAMPLE: the buffer's root freq (Hz) — the pitch at playback speed 1.0
     float smp_start, smp_end;       // INSTR_SAMPLE: the CHOP — play from start..end as fractions 0..1 (default 0,1 = whole). instrument_sample_region()
     int   smp_mode;                 // INSTR_SAMPLE playback: SAMPLE_NORMAL(0)/REVERSE/LOOP/PINGPONG. instrument_sample_mode()
+    int   pna_n;                    // INSTR_PIANO HYBRID ATTACK zones (instrument_piano_attack): how many, 0 = none (default)
+    signed char   pna_smp[16];      //   each zone's sound_samples[] slot (the real recording of that root)
+    unsigned char pna_root[16];     //   its root MIDI note (a played note uses the nearest root)
+    short pna_splice[16], pna_xf[16];   // where the model takes over (ms after note-on) + the cross-fade length (ms)
     int   gl_ms;                    // PORTAMENTO for this patch (instrument_glide): slide time in ms; 0 = no glide (default)
     float gl_scale;                 // GLIDE SCALE amount (instrument_glide_scale): 0 = constant time (default), 1 = per octave
     int   trig;                     // TRIGGER POLICY (instrument_trigger), audit §L4: TRIG_MULTI (0, default —
@@ -324,6 +328,10 @@ typedef struct {
     float  pn_ksb_cur;                  // brightness ENVELOPE: strikes bright, settles to pn_ksb (the piano "bloom")
     float  pn_lfp, pn_lf, pn_lf2;       // HF LOSS filter in the loop (1-pole LP coeff + per-string state; 0 = off). PIANO_HFLOSS
     int    pn_on_n, pn_on_len;          // ONSET RAMP: samples done / total (0 = off). PIANO_ONSET
+    int    pa_smp;                      // HYBRID ATTACK: the sound_samples[] slot playing the real attack; -1 = off, -2 = spliced (model only)
+    int    pa_n, pa_T, pa_X, pa_W;      // samples since note-on / splice point / cross-fade length / level-match window
+    float  pa_pos, pa_rate, pa_sg;      // position in the recording + its speed (pitch) + its gain
+    float  pa_tgt, pa_e, pa_mg;         // the recording's rms at the splice / the model's energy there / the model gain that matches them
     float  pn_apc, pn_aps;              // fractional-delay allpass coeff + state (pitch tuning)
     float  pn_initf;                    // freq at note-on (pitch-tracking reference)
     float  pn_dampg, pn_damps;          // damper gain (pedal) + slewed state
@@ -848,6 +856,7 @@ typedef enum {
     SR_INSTR_SYMP = 173,      // a=slot, b=send*1000 (instrument_resonator)
     SR_MODES_ROW = 174,       // a=slot | first row<<8 (0..511 modes, 512..527 noise), b=rows in it (1-2); per row (Hz*100 | phase*1024<<22) + (dB*100 | decay*10<<16) (instrument_modes)
     SR_MODES_N = 175,         // a=slot, b=0 modes / 1 noise bands, c=count — sent after the rows (instrument_modes / _noise); 0 = off
+    SR_INSTR_PNATK = 176,     // a=slot, b=root midi, c=sample slot (-1 = remove that zone), e0=splice ms, e1=cross-fade ms (instrument_piano_attack)
     SR_SHAPE_HDR = 165,       // a=id, b=n points, c=interp — a shape's header (shape_define), sent after its points
     SR_SHAPE_PT = 166,        // a=id, b=point index, c=t_ms, e0=value*1000 — one breakpoint (shape_define)
     SR_INSTR_RELSHAPE = 164,  // a=slot, b=shape — the release curve (instrument_release_shape)

diff --git a/runtime/studio.h b/runtime/studio.h
@@ -458,6 +458,7 @@ const char *export_last(void);                            // file path of the la
 void record_arm(void);                                    // PCM SAMPLER: begin the always-on rolling capture of the master output (idempotent; off + byte-identical until called). Call once, then record_grab() any time to snapshot recent audio
 int  record_grab(int sample_slot, float seconds);         // snapshot the last `seconds` of captured audio into PCM sample slot 0..15; peak-normalized + leading/trailing SILENCE TRIMMED (starts at the first audible sample). Returns samples grabbed after trim (0 = not armed / nothing yet). Pair with instrument_sample() + INSTR_SAMPLE
 void instrument_sample(int slot, int sample_slot, int root_midi); // bind an INSTR_SAMPLE instrument slot to a recorded buffer; root_midi = the note that plays it at original speed (e.g. 60 = C4). Higher notes play faster/up in pitch
+void instrument_piano_attack(int slot, int sample_slot, int root_midi, int splice_ms, int xfade_ms); // INSTR_PIANO with MODE_PIANO_MODEL 1: play a REAL recorded attack (a sample slot of the note root_midi) for splice_ms, then cross-fade (xfade_ms) into the modelled string. Call once per zone; a note uses the nearest root. sample_slot -1 removes that root's zone
 void instrument_sample_region(int slot, float start, float end); // set the CHOP: play the bound buffer only from start..end (fractions 0..1; default 0,1 = whole). Move the marks live to carve a single slice
 void instrument_sample_mode(int slot, int mode);                 // INSTR_SAMPLE playback: SAMPLE_NORMAL / REVERSE / LOOP / PINGPONG (loop + pingpong sustain while the note is held)
 int  sample_peaks(int slot, float *lo, float *hi, int n);       // waveform readout: downsample PCM slot 0..15 to n columns of min/max (-1..1) into lo[]/hi[] for drawing. Returns buffer length (0 = empty). Draw-time

diff --git a/runtime/studio_tcc_symbols.h b/runtime/studio_tcc_symbols.h
@@ -1,6 +1,6 @@
 // AUTO-GENERATED by tools/gen-tcc-symbols.js from studio.h — DO NOT EDIT.
 // X-macro list of studio API functions exposed to libtcc-loaded carts (-DDE_TCC).
-// 428 symbols. Regenerate after changing studio.h's declarations.
+// 429 symbols. Regenerate after changing studio.h's declarations.
 #define DE_TCC_API_SYMBOLS(X) \
     X(screen_w) \
     X(screen_h) \
@@ -179,6 +179,7 @@
     X(record_arm) \
     X(record_grab) \
     X(instrument_sample) \
+    X(instrument_piano_attack) \
     X(instrument_sample_region) \
     X(instrument_sample_mode) \
     X(sample_peaks) \
